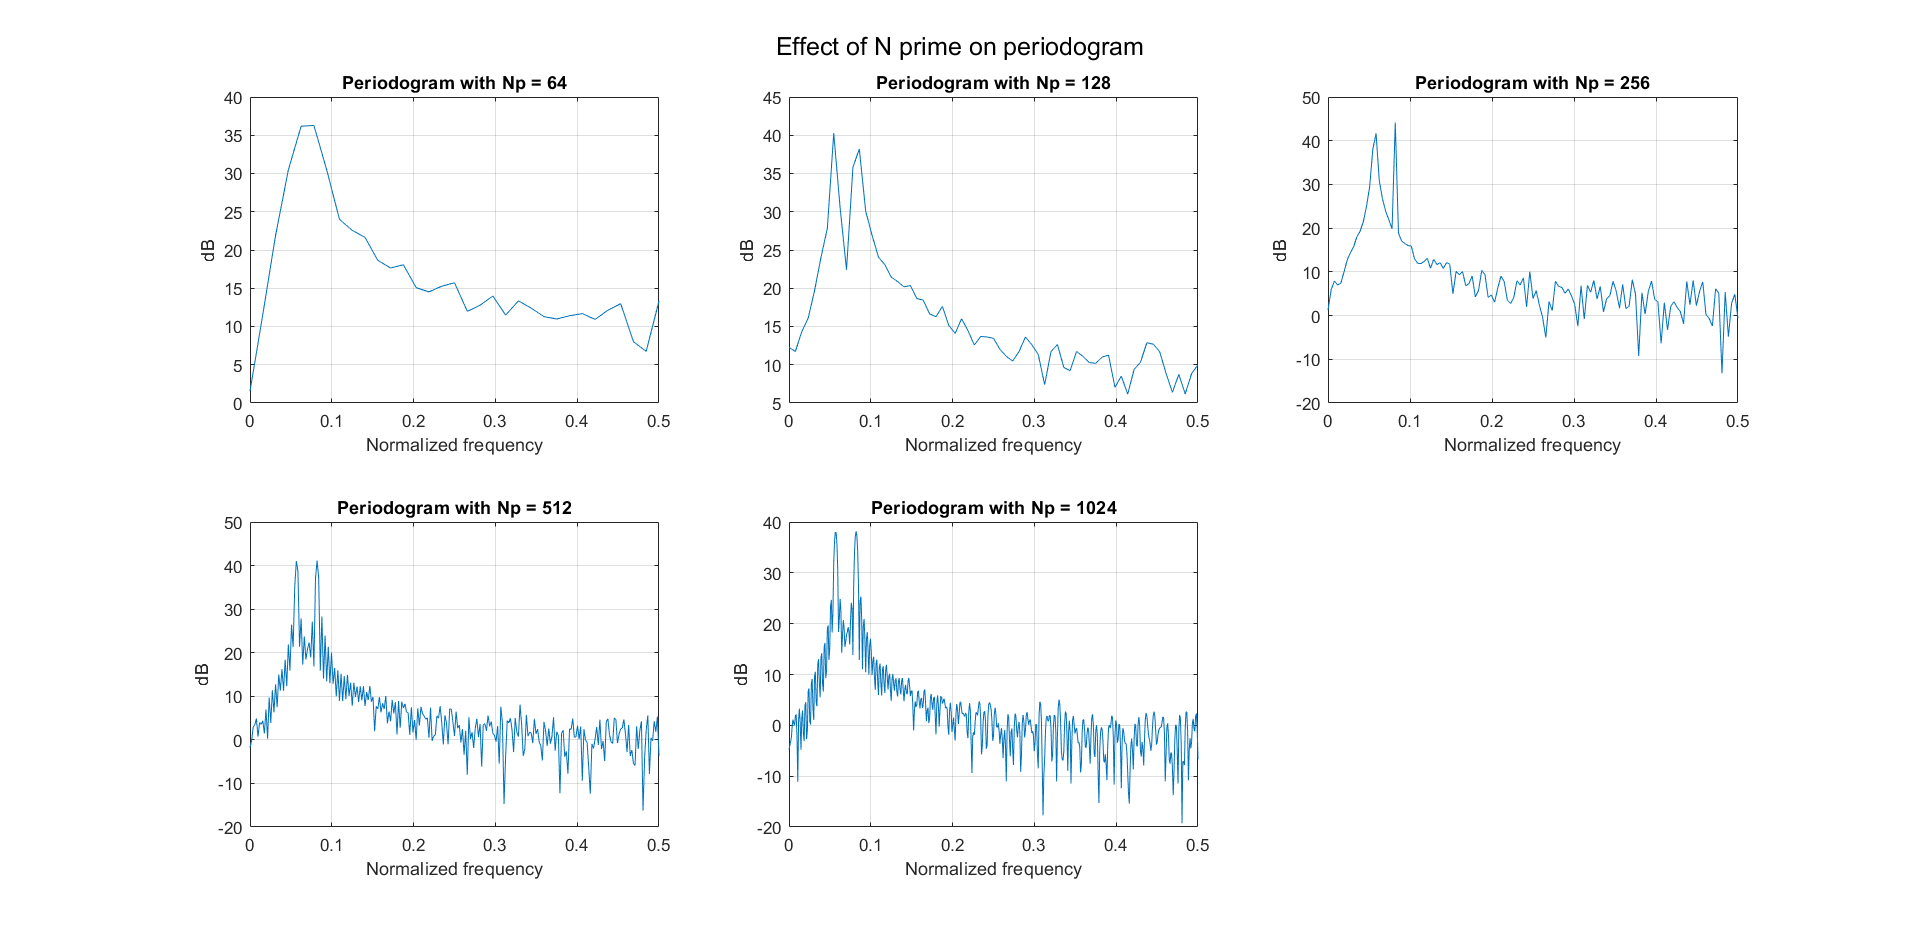
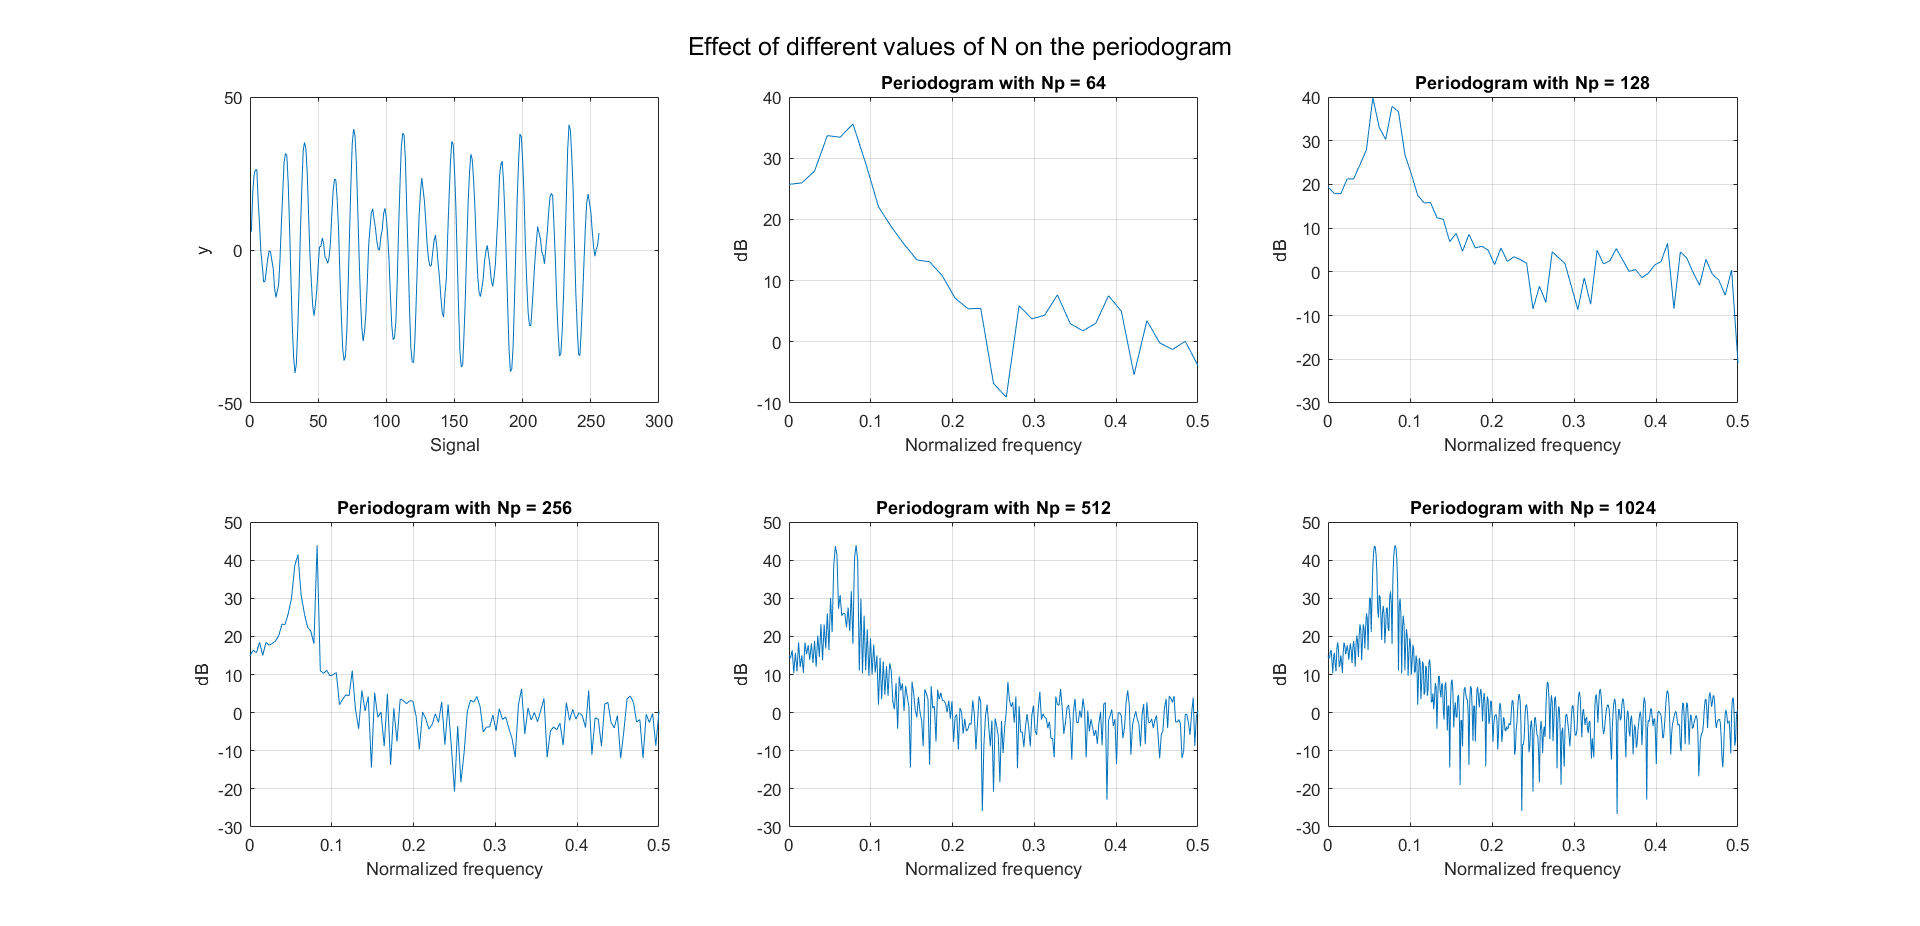
modified

diff --git a/exercises/part1.m b/exercises/part1.m
@@ -1,115 +1,96 @@
 % point B
-
 % generate one realization of yk with N = 256 samples
 N = 256;
 [y, ~] = sig(N);
 
 % define the window
 window_type = 'boxcar';
+w = window(window_type, N);
+y_windowed = y.*w;
+figure;
+subplot(2, 3, 1)
+plot(y_windowed)
+xlabel('Signal')
+ylabel('y')
+grid on
 
 % define the range of N' values (called Np)
 Np_values = [64, 128, 256, 512, 1024];
-
-figure;
 
 for i = 1:length(Np_values)
     Np = Np_values(i);
     win = window(window_type, Np);
     
-    % apply the window to the signal
-    % y_windowed = y(1:min(length(y), length(win))) .* win(1:min(length(y), length(win)));
     if Np < N
-        y_windowed = y(1:Np) .* win(1:Np);
+        % y_windowed = y(1:Np) .* win(1:Np);
+        subplot(2, 3, i+1)
+        periodo(y_windowed(1:Np), Np)
+        title(['Periodogram with Np = ' num2str(Np)]);
     else
-        y_windowed = [y; zeros(Np - N, 1)] .* win;
+        % y_windowed = [y; zeros(Np - N, 1)] .* win;
+        subplot(2, 3, i+1)
+        periodo(y_windowed, Np)
+        title(['Periodogram with Np = ' num2str(Np)]);
     end
-    subplot(2, 3, i);
-    % compute the periodogram
-    periodo(y_windowed, Np);
-    title(['Periodogram with Np = ' num2str(Np)]);
 end
-
-sgtitle('Effect of N prime on periodogram');
-
+sgtitle('Effect of different values of N on the periodogram');
 
 
-% point C
+%--------------------------- point C ------------------------------------
 N = length(y);
-
-% Reverse the signal
 y_reverse = y(N:-1:1);
-
-% Convolve the signal with its reversed version
-correlation_result = conv(y, y_reverse);
-
-% Extract the correlation sequence r0:n
-n_max = min(N - 1, length(correlation_result) - N + 1);
-correlation_sequence = correlation_result(N:N + n_max) / N;
-
+convolution = conv(y, y_reverse)/numel(y);
+correlation_sequence = zeros(1, N);
+for i=1:N
+    correlation_sequence(i) = convolution(N+i-1);
+end
 % Display the correlation sequence
 figure;
-stem(0:n_max, correlation_sequence);
+stem(0:N-1, correlation_sequence);
 title('Correlation Sequence');
 xlabel('n');
 ylabel('Correlation Value');
 grid on;
 
+%--------------------------- point D ------------------------------------
+[pred_error_var, pred_error_filter, parcors_seq] = my_levinson(correlation_sequence);
+N = 1024;
+filter_f = fft(pred_error_filter, N);
+filter_f = filter_f(1:(N/2)+1);
+f = 0:1/N:0.5;
+AR_spectrum = pred_error_var(end)./(abs(filter_f).^2);
 
-% point D
-
-prediction_order = 20;
-% Call the levinson function
-[sigma2_f, A, K] = levinson(correlation_sequence(1:prediction_order+1));
-
-
-% autoregressive spectrum estimate
 figure;
-N = 1024; 
-A_padded = [1; A(:, end); zeros(N - length(A), 1)];
-AR_spectrum = abs(fft(A_padded, N)).^2;
-freq_axis = (0:N - 1) / N;
 
-
-% Plot the periodogram
-subplot(2, 1, 1);
-periodo(y, 1024);
-title('Periodogram with N = 1024');
-
-% Plot the autoregressive spectrum estimate
-subplot(2, 1, 2);
-plot(freq_axis, 10 * log10(AR_spectrum));
+subplot(4, 1, 1);
+plot(f, 10*log10(AR_spectrum))
 hold on;
+periodo(y, 1024)
+title('Periodogram and Autoregressive Spectrum Estimate')
+legend('Autoregressive Spectrum Estimate', 'Periodogram')
+xlabel('Normalized Frequency')
+ylabel('dB')
 
-title('Autoregressive Spectrum Estimate');
-xlabel('Normalized Frequency');
-ylabel('dB');
-grid on;
-% Adjust layout
-sgtitle('Periodogram and Autoregressive Spectrum Estimate');
+subplot(4, 1, 2);
+stem(0:20, pred_error_filter)
+axis([0, 20, -inf, inf])
+title('Filter Coefficients')
+xlabel('Coefficient Index')
+ylabel('A(0:20)')
+grid on
 
+subplot(4, 1, 3);
+stem(0:20, pred_error_var)
+axis([0, 20, -inf, inf])
+title('Evolution of the Prediction Error Variance')
+xlabel('Order')
+ylabel('sigma^2(0:20)')
+grid on
 
-% Plot the values of A20,0:20
-subplot(2, 1, 2);
-stem(0:prediction_order, A(:,end));
-title('Values of A20,0:20');
-xlabel('Coefficient Index');
-ylabel('Coefficient Value');
-grid on;
-
-% Plot the evolution of σ^2_f,0:20 and the PARCORS
-figure;
-
-subplot(2, 1, 1);
-stem(0:prediction_order, sigma2_f);
-title('Evolution of \sigma^2_f,0:20');
-xlabel('Order');
-ylabel('\sigma^2_f');
-grid on;
-
-subplot(2, 1, 2);
-stem(1:prediction_order, K);
-title('Evolution of PARCORS K1:20');
-xlabel('Order');
-ylabel('PARCORS');
-grid on;
-
+subplot(4, 1, 4);
+stem(1:20, parcors_seq)
+axis([1, 20, -inf, inf])
+title('PARCORS')
+xlabel('Order')
+ylabel('K(1:20)')
+grid on

diff --git a/exercises/my_levinson.m b/exercises/my_levinson.m
@@ -1,0 +1,23 @@
+function [sigma2_f, A, K] = my_levinson(correlation_sequence)
+    % Input:
+    % correlation sequence r_{0:20}
+    % Output:
+    % sigma2_f = sequence of prediction error variances sigma^2_{f,0:20}
+    % A = prediction error filter coefficients of order 20 A_{20, 0:20}
+    % K = sequence of PARCORS K_{1:20}
+
+    n=20;
+    K = zeros(1, n+1);
+    sigma2_f = zeros(1, n);
+
+    % Initialization
+    A = 1;
+    sigma2_f(1) = correlation_sequence(1);
+
+    for i=1:n
+        delta = correlation_sequence(i+1:-1:2)*A';
+        K(i+1) = -delta/sigma2_f(i);
+        A = [A, 0] + K(i+1)*[0, A(i:-1:1)];
+        sigma2_f(i+1) = sigma2_f(i)*(1-K(i+1)^2);
+    end
+    K = K(2:n+1)';
